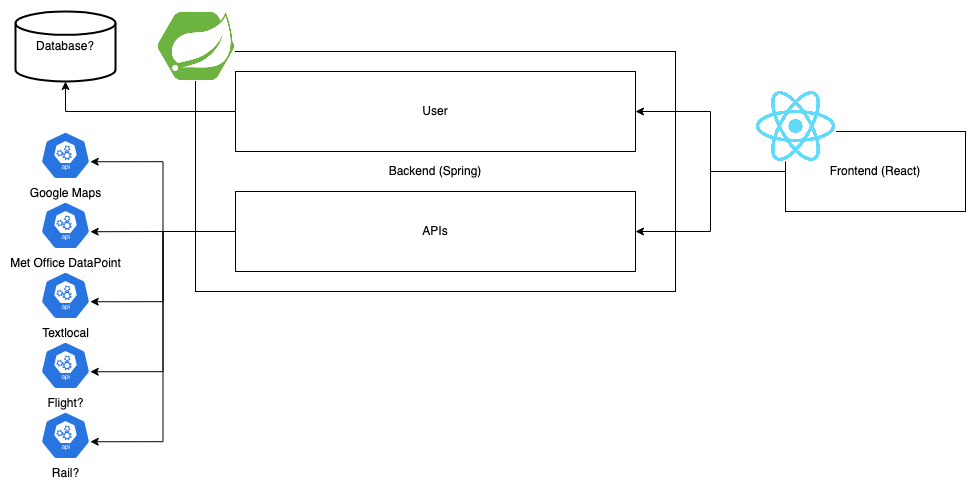
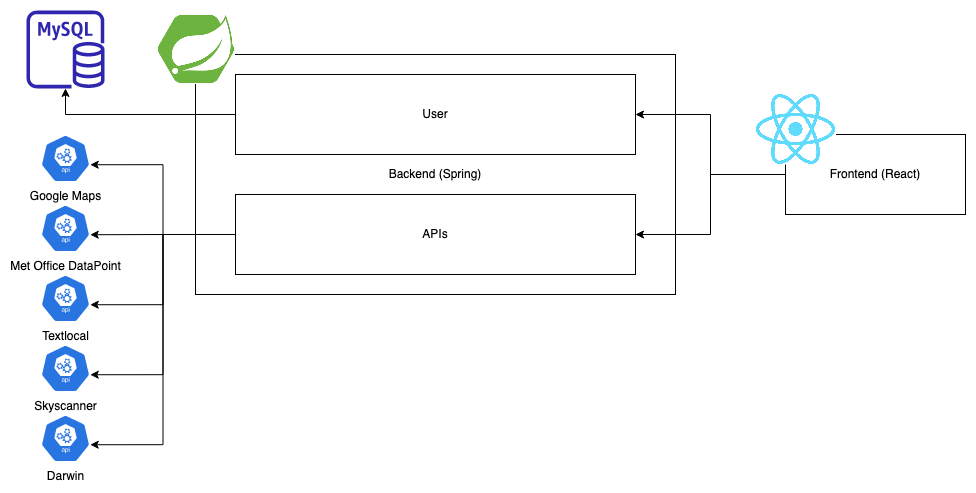
[1,2] Added apis for flight and rail

diff --git a/README.md b/README.md
@@ -42,16 +42,15 @@ scrum master rotates every 2 days (cycle Adam, Harry, Selina, Kalyan, Ganesh)
 
 ### APIs
 
-Met Office DataPoint (Weather):
- - [register](https://register.metoffice.gov.uk/WaveRegistrationClient/public/newaccount.do?service=datapoint)
-  - [documentation](https://www.metoffice.gov.uk/services/data/datapoint/datapoint-documentation)
+Met Office DataPoint (Weather): https://www.metoffice.gov.uk/services/data/datapoint/datapoint-documentation
 
-Google Maps (Maps):
- - [documentation](https://developers.google.com/maps/documentation)
+Google Maps (Maps): https://developers.google.com/maps/documentation
 
- Textlocal (SMS):
-  - [register](https://textlocal.com/signup/)
-  - [documentation](https://api.txtlocal.com/docs/)
+Textlocal (SMS): https://api.txtlocal.com/docs/
+
+Skyscanner (Flight): https://developers.skyscanner.net/docs/intro
+
+Darwin (Rail): https://www.nationalrail.co.uk/developers/darwin-data-feeds/
 
 
 ### System Architecture
